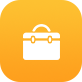
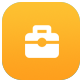
悟空CRM智慧名片的加入

Changed region(s): [[0.0, 0.0, 1.0, 1.0], [0.2683, 0.2927, 0.7317, 0.7317]]

diff --git a/src/views/SystemManagement/application/index.vue b/src/views/SystemManagement/application/index.vue
@@ -231,6 +231,10 @@ export default {
           bi: {
             disable: require('@/assets/img/system/app/bi_disable.png'),
             enable: require('@/assets/img/system/app/bi_enable.png')
+          },
+          applet: {
+            disable: require('@/assets/img/system/app/mp_enable.png'),
+            enable: require('@/assets/img/system/app/mp_enable.png')
           }
         }[moduleType][status == 1 ? 'enable' : 'disable']
       }
